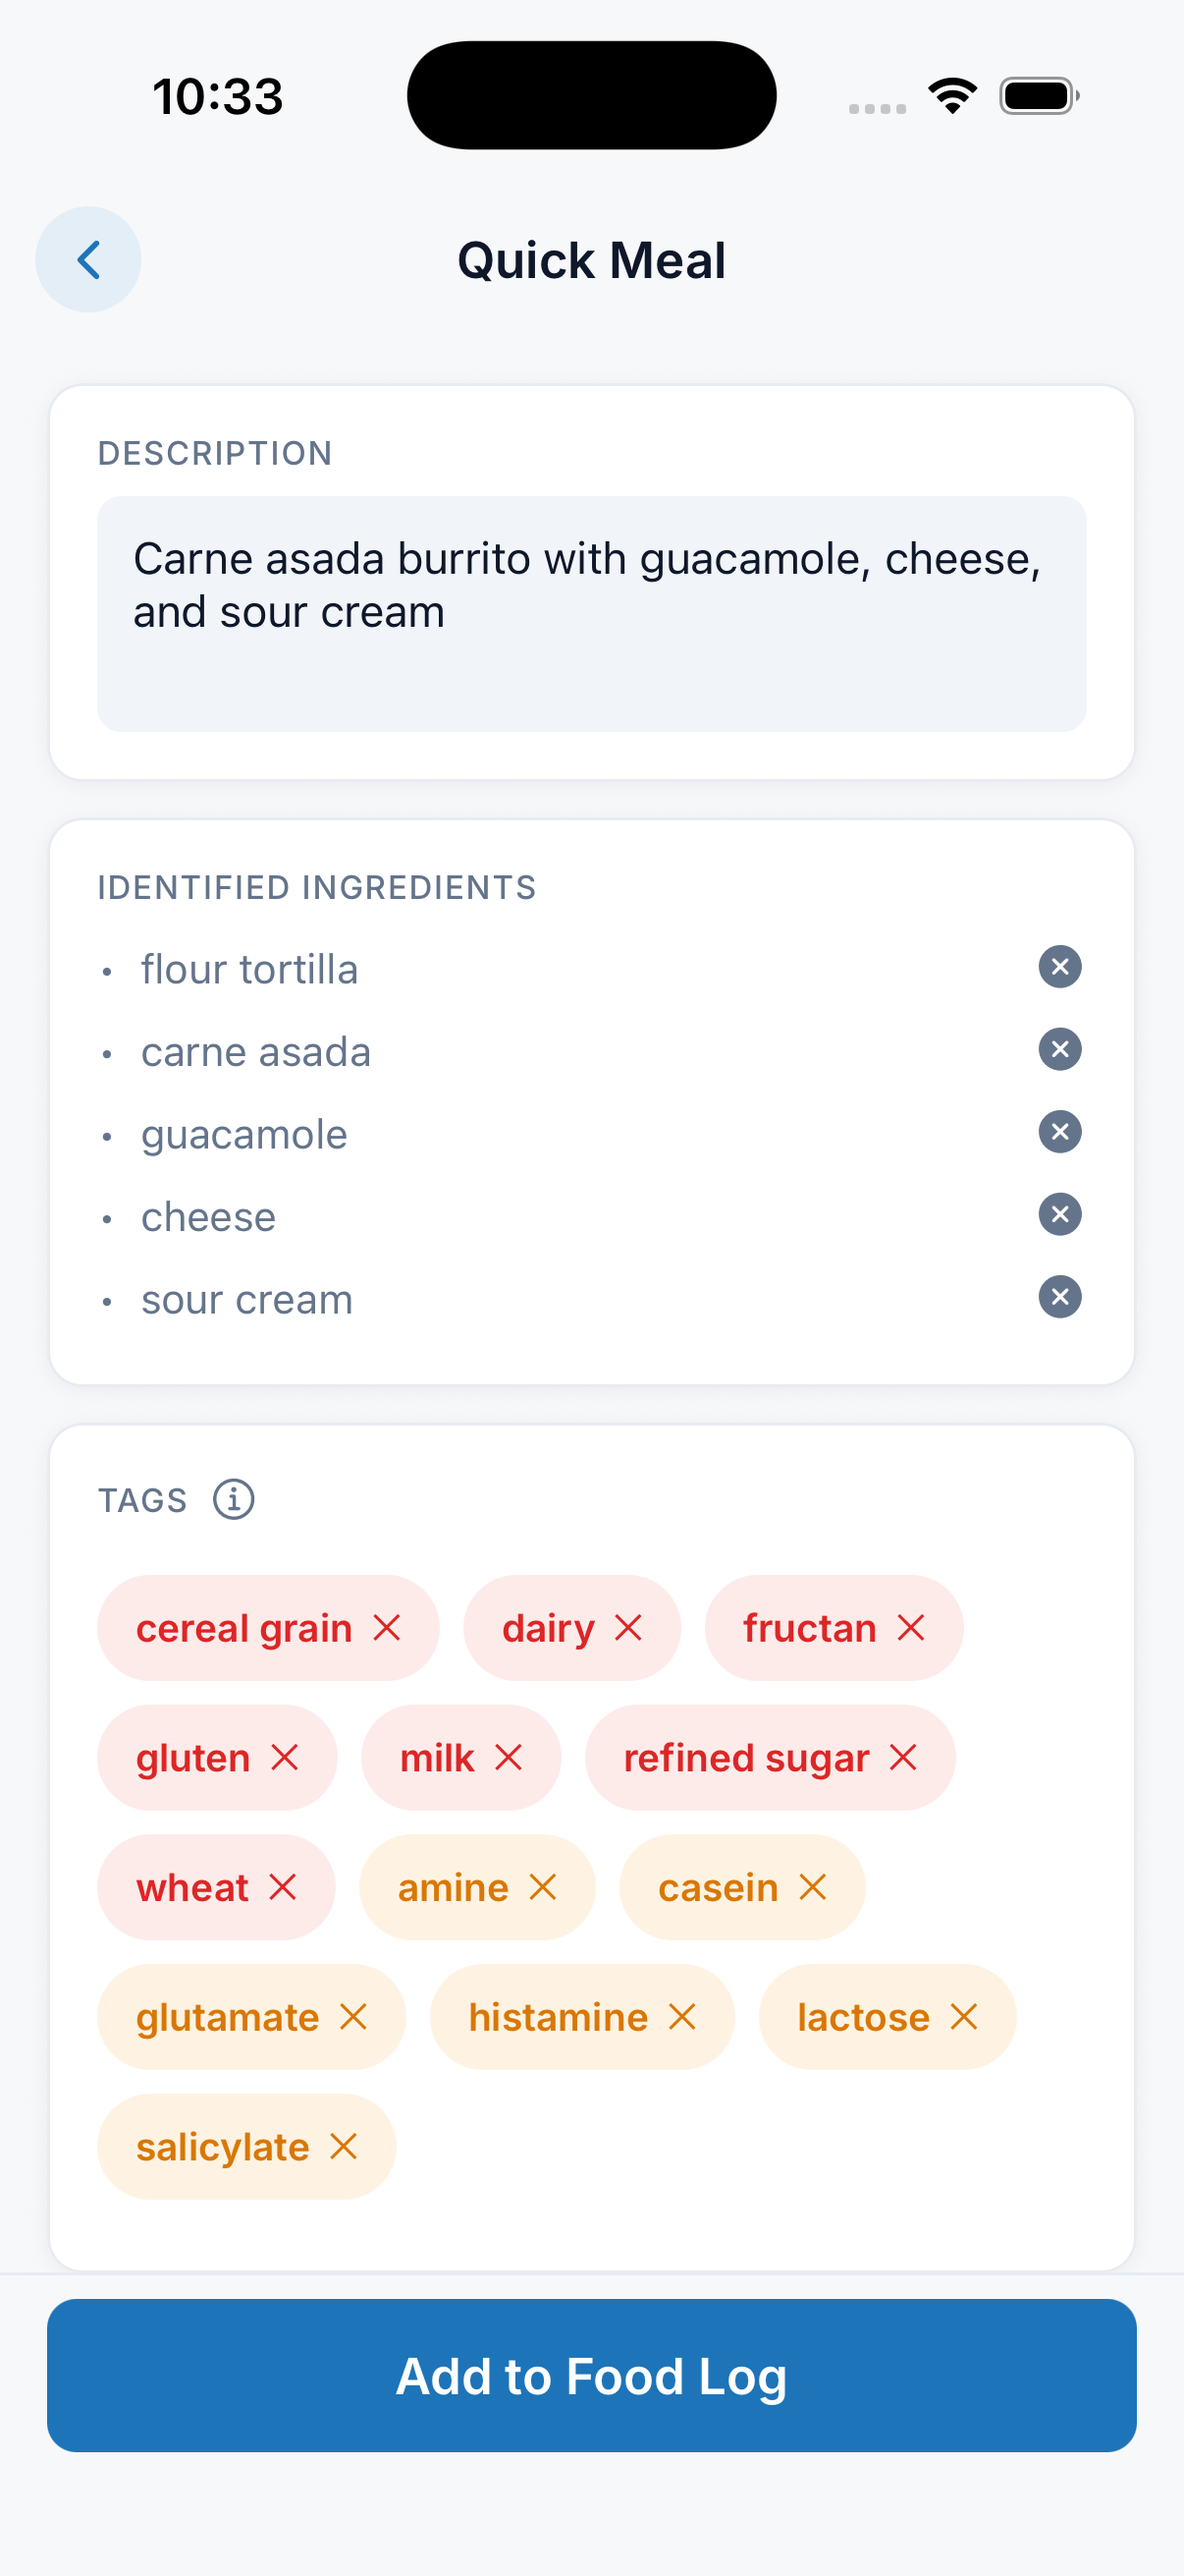
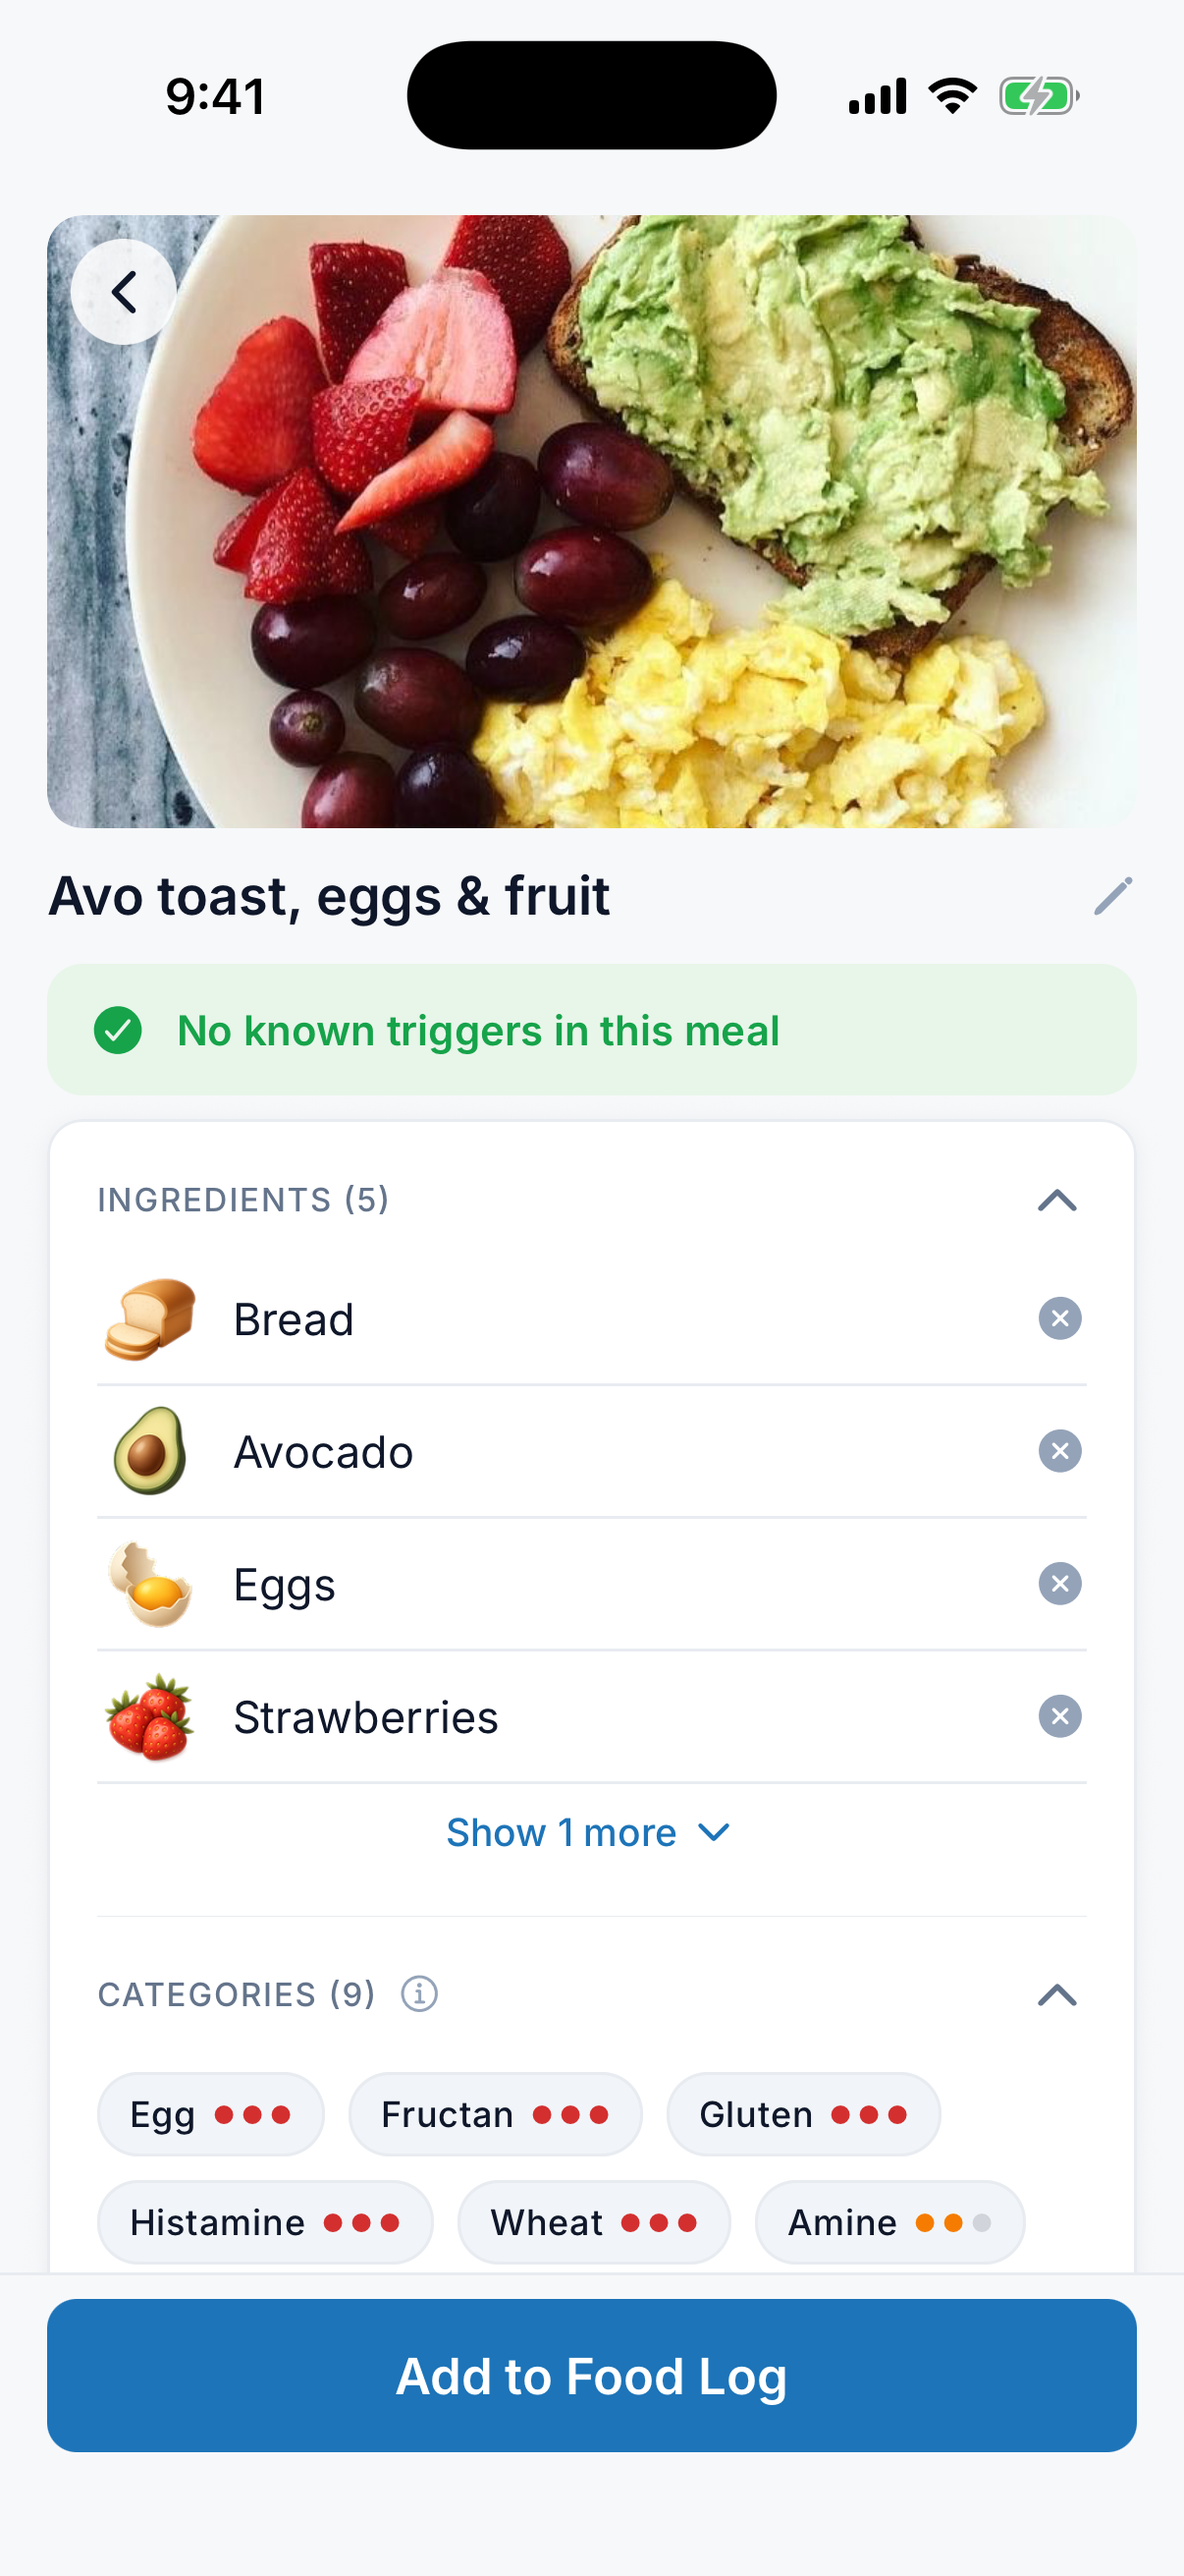
Update screenshots for features section

diff --git a/app/components/marketing/DownloadCta.tsx b/app/components/marketing/DownloadCta.tsx
@@ -30,7 +30,7 @@ export default function DownloadCta() {
               className="h-[50px] w-auto opacity-40"
             />
             <span className="absolute -top-2 -right-3 rounded-full bg-ink/70 px-2 py-0.5 text-[10px] font-semibold text-white">
-              Soon
+              Coming Soon
             </span>
           </div>
         </div>
